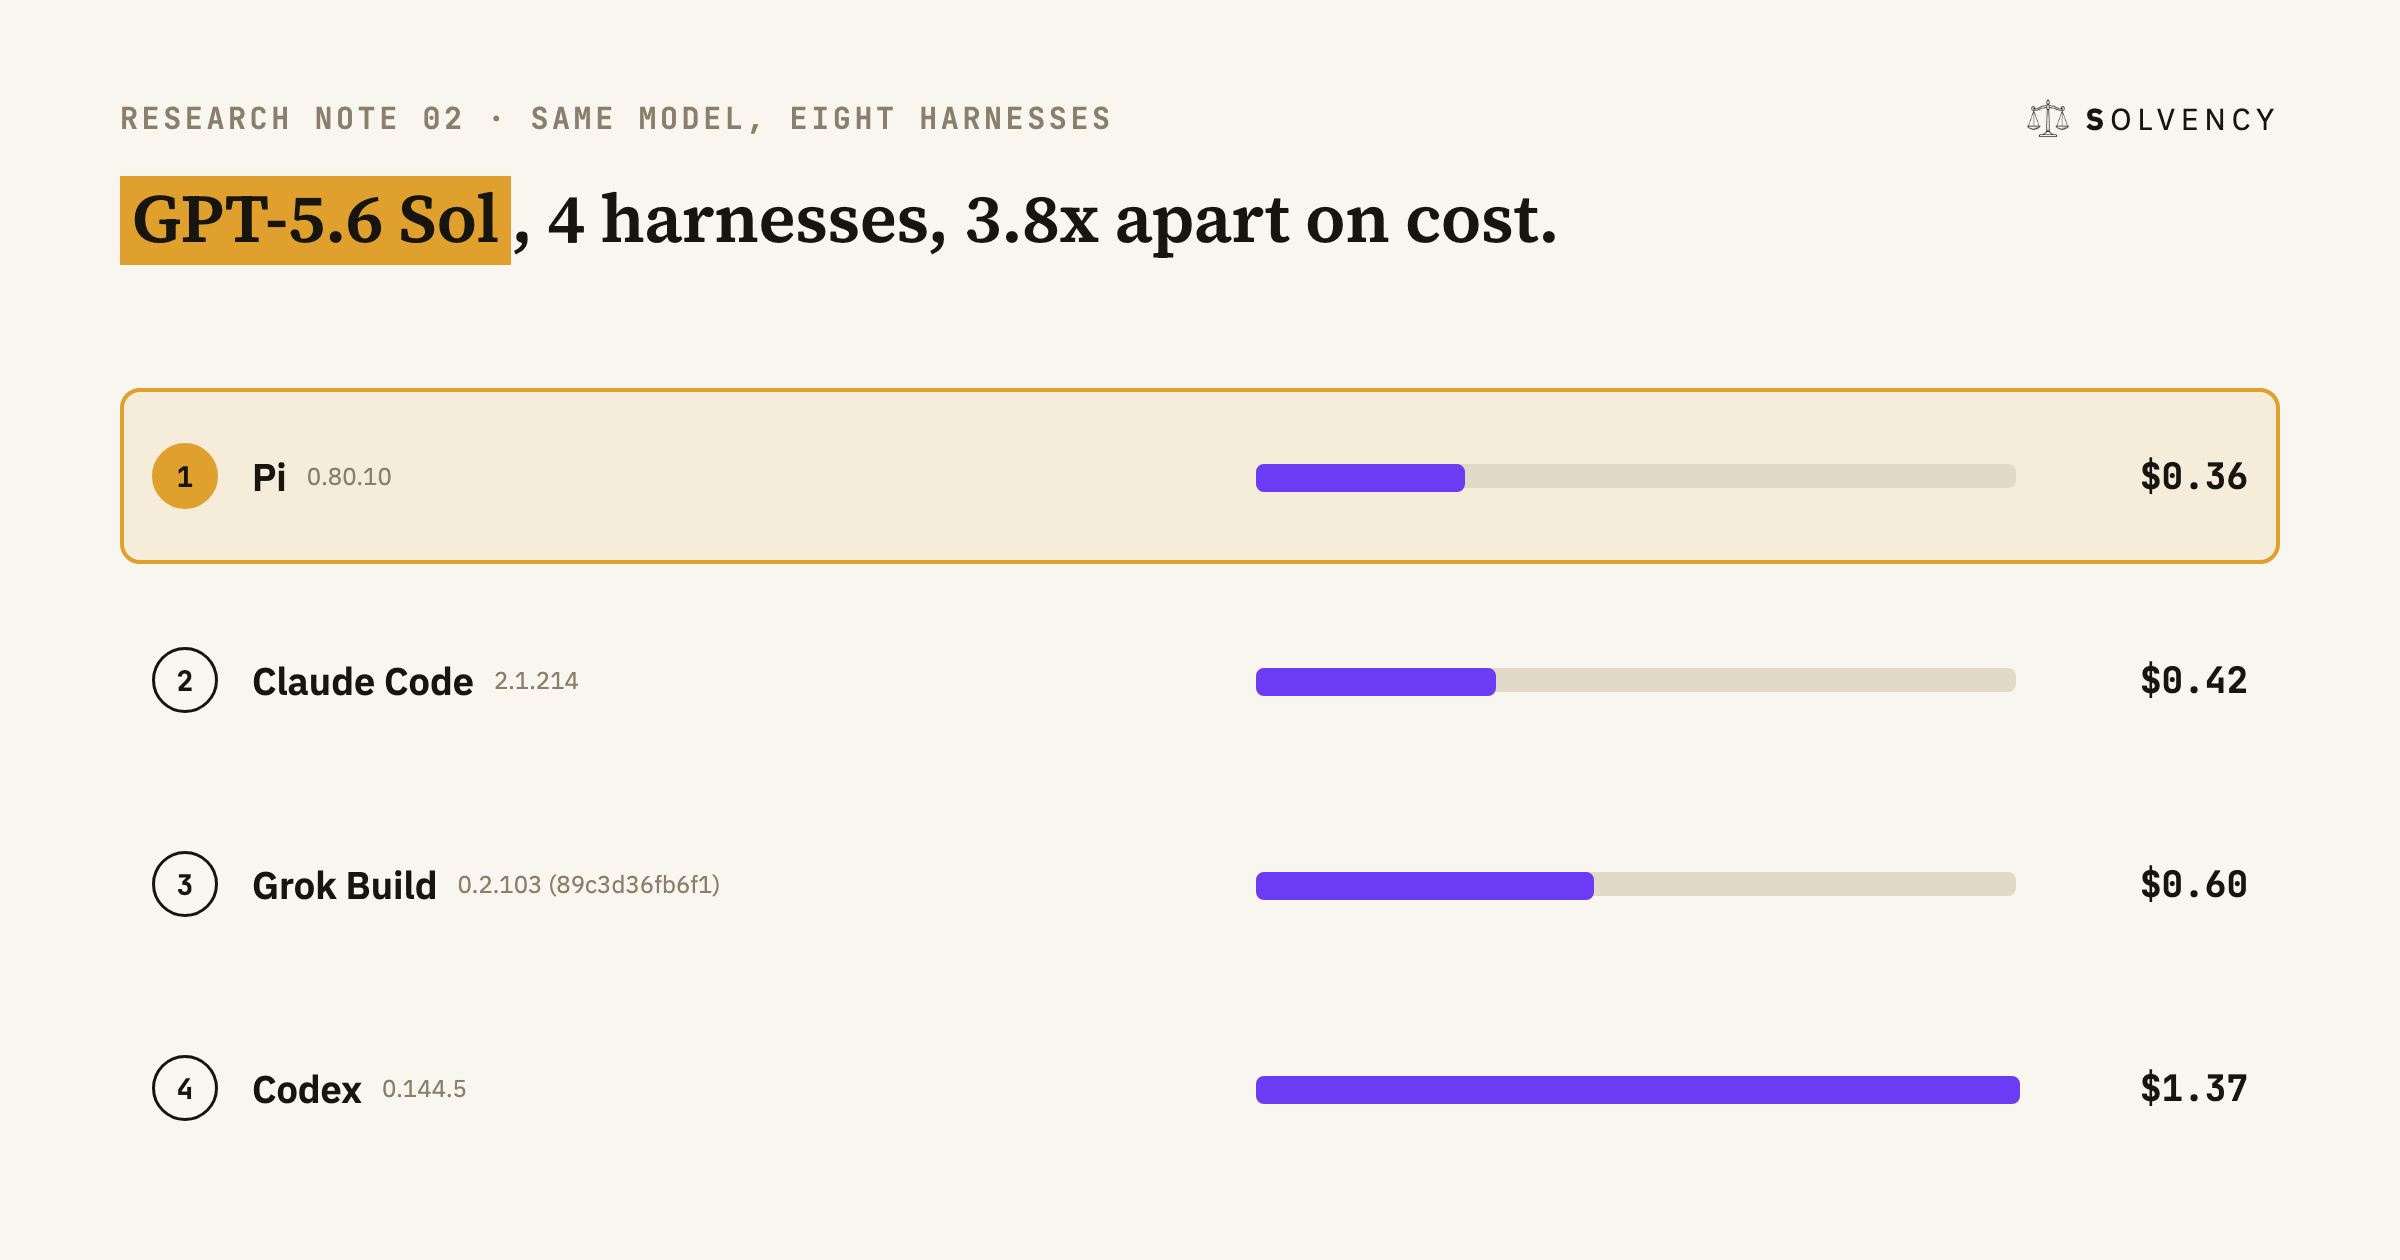
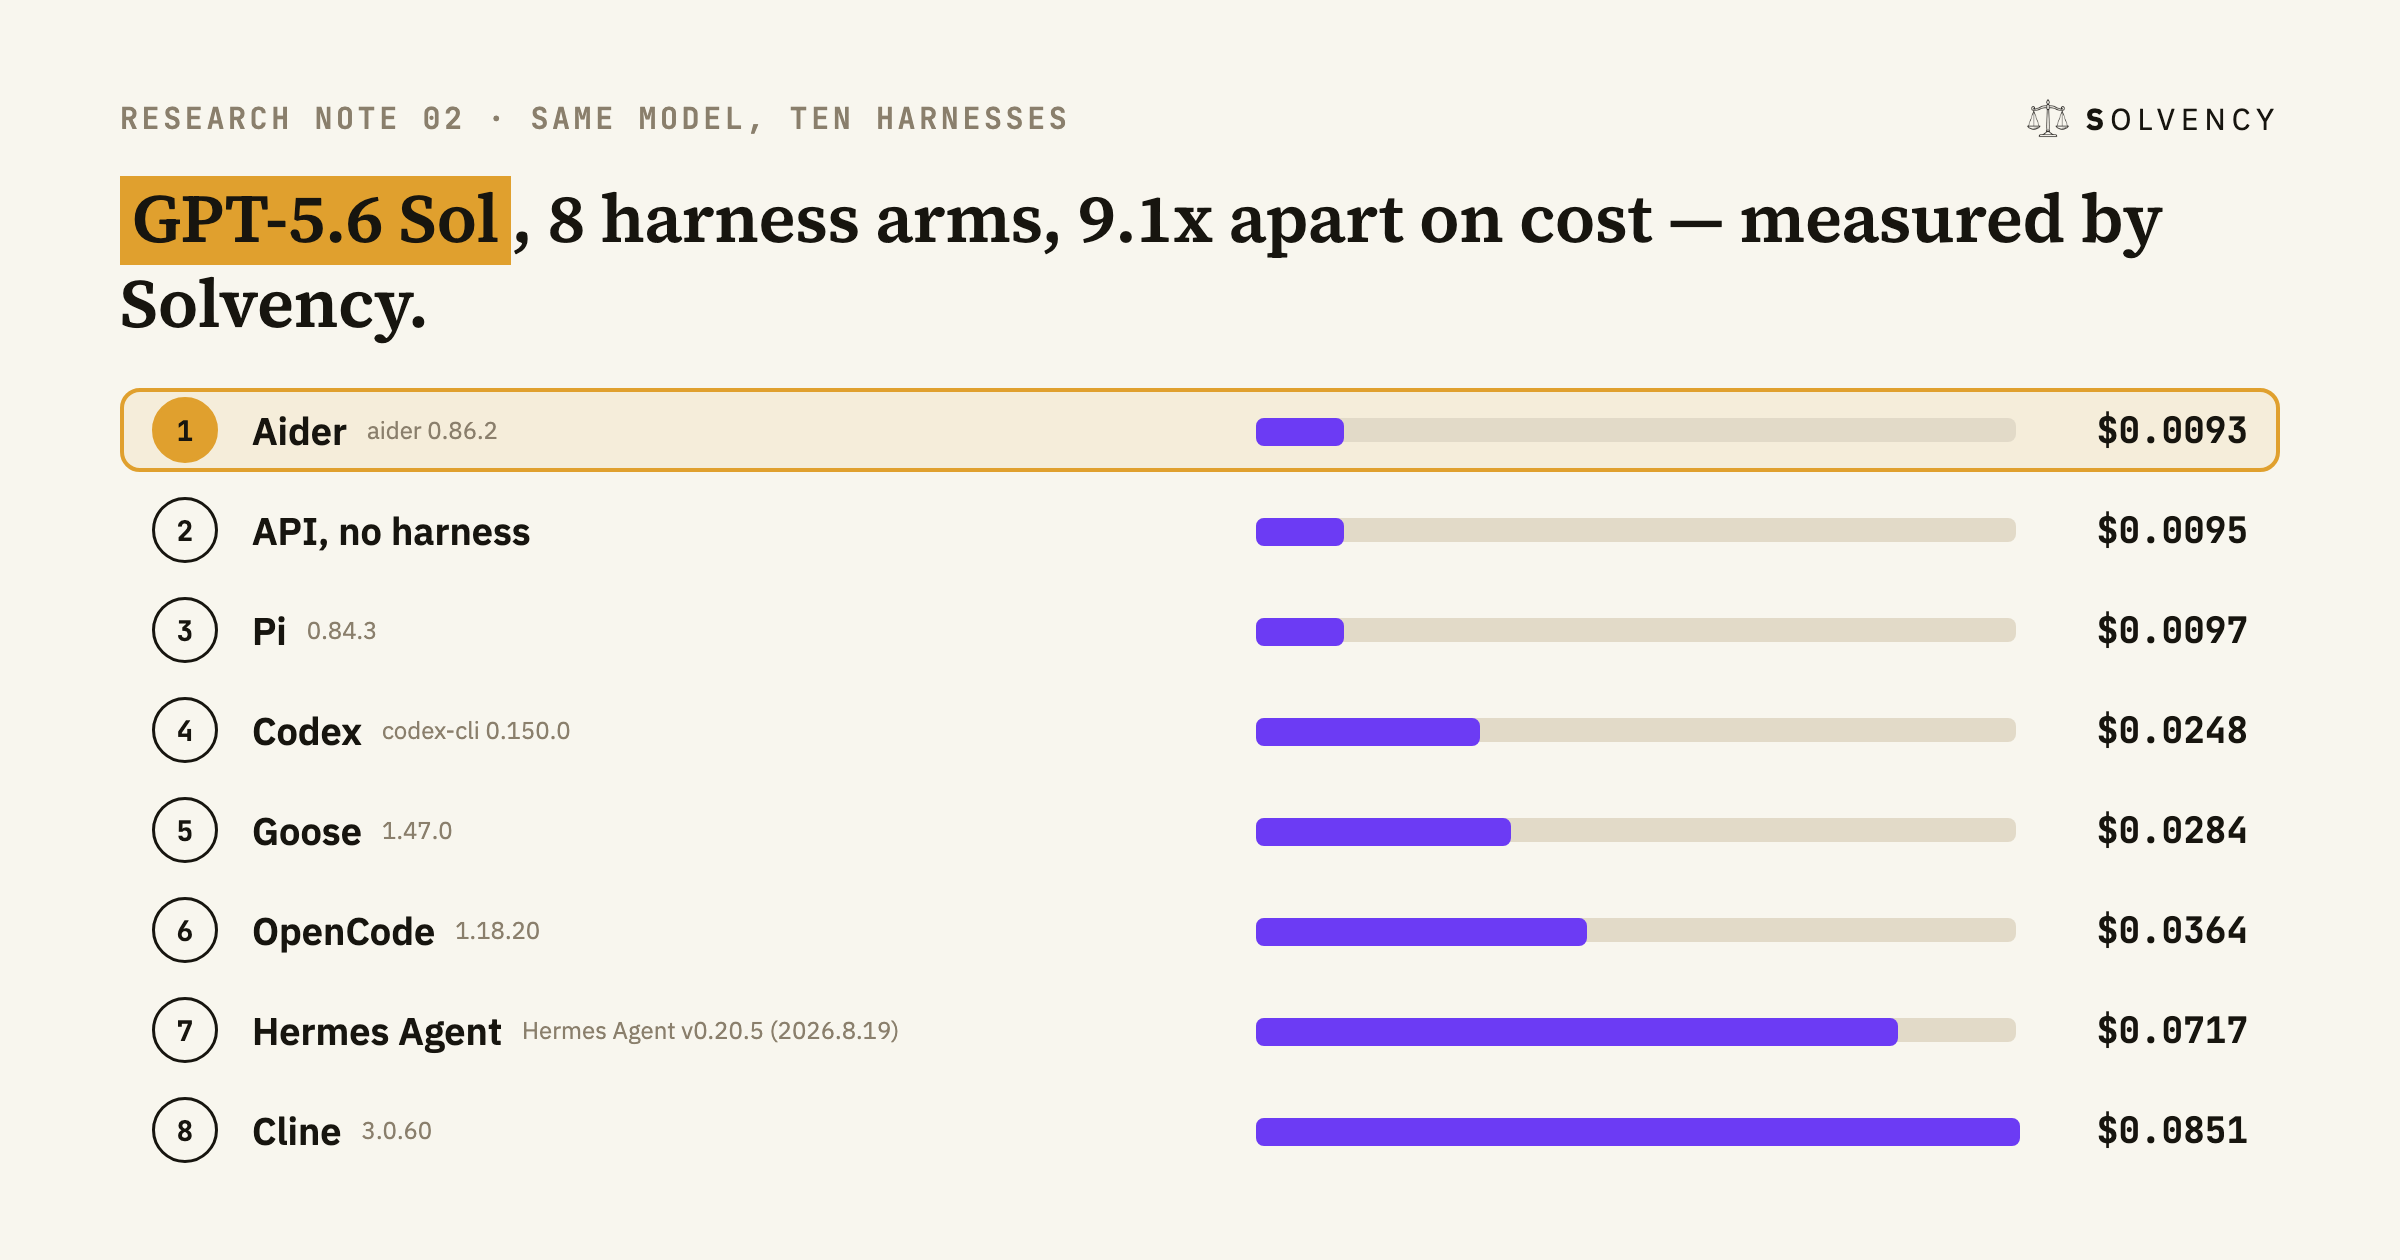
Note 02 unfurl card ranks the first-party population
The banner counts the note's ten-harness union; the rows were still
population one (four OpenBench arms, 'population 1 of 2' footer). Rows
now come from the eight-arm Solvency Bench study with a footer naming
population 3 of 3 — banner count and row count are separate claims.

diff --git a/scripts/og-card-data.ts b/scripts/og-card-data.ts
@@ -691,16 +691,20 @@ function note01CardData(fm: ReportFrontmatter): RankedCardData {
 /** Research note 02 (Same Model, Four Harnesses) IS the harness ranking — no
  * separate construction, just the note's own key and eyebrow on top of it. */
 function note02CardData(fm: ReportFrontmatter): RankedCardData {
-  const card = rankedHarnessCardData();
-  if (!card) throw new Error('note02CardData: rankedHarnessCardData() returned null — research note 02 needs a model with 2+ harness results');
-  // Eyebrow comes from the note's own frontmatter title (now "Same Model,
-  // Six Harnesses" — two populations), not from the OpenBench row count: the
-  // rows below are population one, which the source/note lines attribute.
+  // The note's title counts the distinct-harness union across all three
+  // populations ("Ten Harnesses"); the ranked rows must come from ONE
+  // population — ranking across benchmarks is the exact basis blend the
+  // note forbids. Since 2026-08-26 the rows are population three, the
+  // first-party eight-arm Solvency Bench run (the note's lead finding);
+  // the footer names the population so the banner count and the row count
+  // can never read as the same claim.
+  const card = rankedSolvencyHarnessCardData();
+  if (!card) throw new Error('note02CardData: rankedSolvencyHarnessCardData() returned null — research note 02 needs the first-party harness study on disk');
   return {
     ...card,
     key: 'note-02',
     eyebrow: `RESEARCH NOTE 02 · ${fm.title.toUpperCase()}`,
-    noteLine: `NOTE: OPENBENCH POPULATION 1 OF 2 · VERIFIED ${sourceFor(HARNESS_BENCHMARKS[0])!.last_verified}`,
+    noteLine: 'NOTE: SOLVENCY BENCH · POPULATION 3 OF 3 · FIRST-PARTY, RUN 2026-08-26',
     raw: { ...card.raw, note: fm.note },
   };
 }
